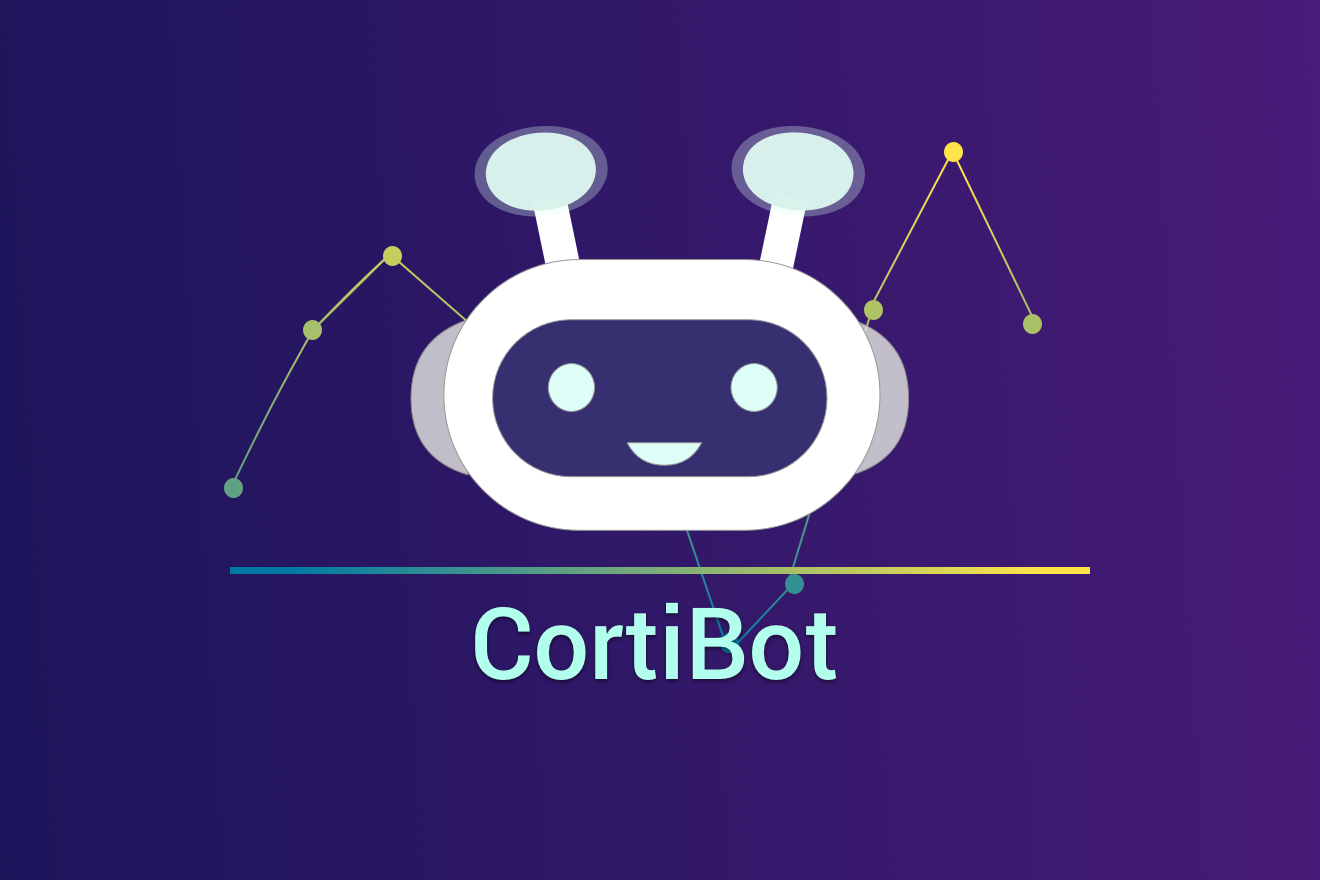
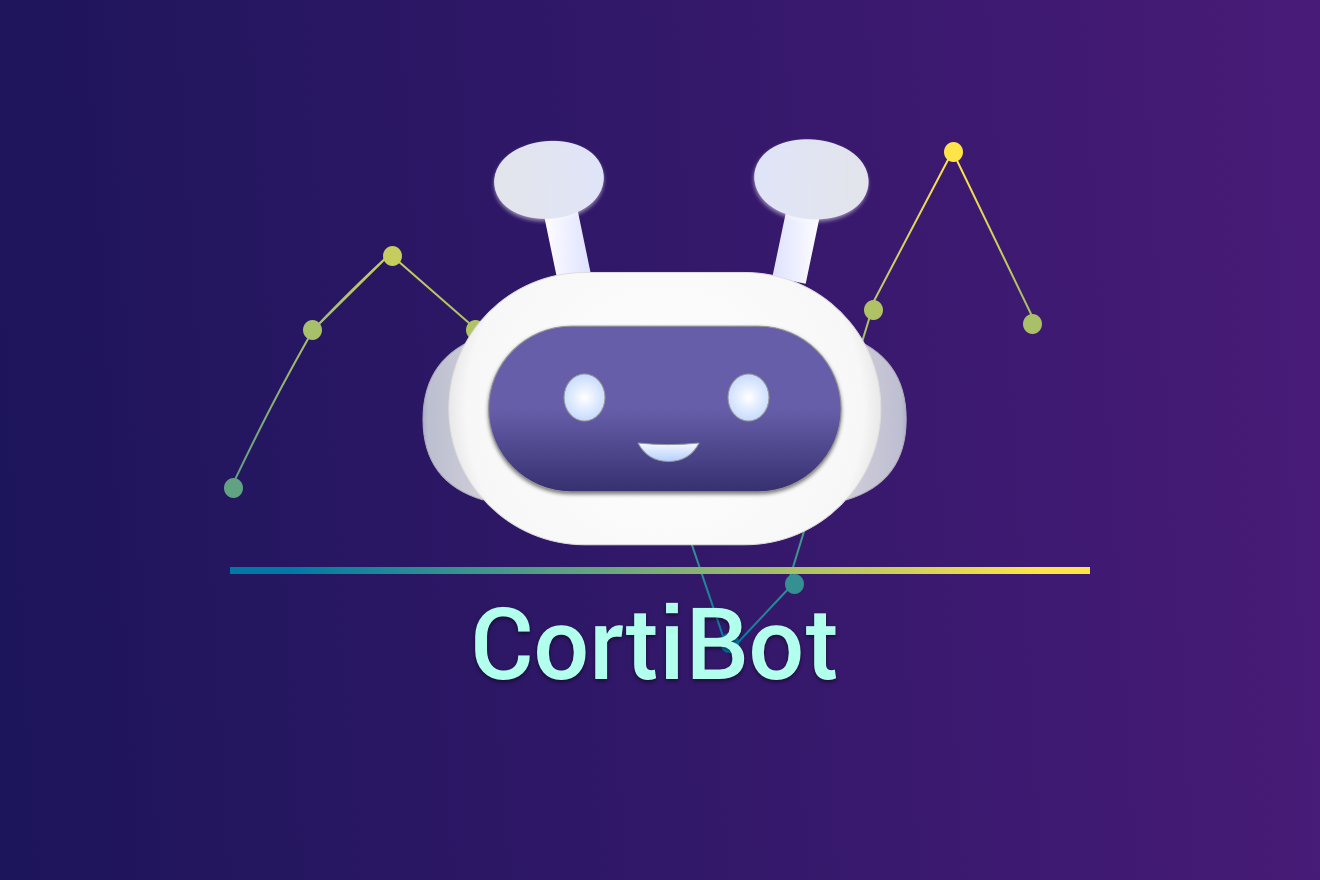
content update

Changed region(s): [[0.3106, 0.1227, 0.6833, 0.6443], [0.6833, 0.4295, 0.7144, 0.4602]]

diff --git a/html/cortibot.html b/html/cortibot.html
@@ -43,6 +43,7 @@
                 <li><a href="index.html">Home </a></li>
                 <li><a href="portfolio.html">Work </a></li>
                 <li><a href="about.html">About </a></li>
+                <li><a href="https://drive.google.com/file/d/1_FbykulEmY7DVFXXd3j-40oeya6c9qxC/view?usp=sharing" target="_blank">Resume</a></li>
                 
             </ul>
         </div>
@@ -164,6 +165,8 @@
 
              
               <p> We decided to reframe our information hierarchy and then visualize them consistently. For instance, the task page would only have tasks with consistent title, content, and points. As we tested through the prototype with the user, we also realized that the order that we revealed the information according to the menu bar might not align with our intention. </p> 
+
+
               <p>We decided to <span class = "inlinetext">change the order of the task menu </span> and the track menu so that users can <span class = "inlinetext">prioritize completing the tasks </span> rather than tracking the numbers. This change would better serve our goal of the app. Finally, we realized the way we represented the metaphors was not providing sufficient information for users to understand the purpose of the app, and what actions need to be taken for each steps. Based on the user’s feedback, we decided to specify the components of the HP or Level.  </p>
 
               
@@ -244,10 +247,8 @@
         <div class = "moredesign" id = "moredesign" data-aos="fade-up" data-aos-duration="600">
           <div class = "secheader" >More Design</div>  
 
-
-          <img src = "../assets/img/cortimore.png" style = "width:100%;"></img> 
-
-               
+           <img src = "../assets/img/cortilogo.png" style = "width:100% "alt ="Robot Design" >
+           
            
             
             <p> Although our demo day has past, our design never stops. We are still updating and completing our CortiBot. Here are some more design screens we created which includes:
@@ -257,6 +258,8 @@
               <li>Using repetitive prompt and context to help users form habits. </li>
               <li>Using gamification to increase engagement which includes finding gear, increasing engine, and adding oil. </li>
               </p>
+
+              <img src = "../assets/img/cortimore.png" style = "width:100%;"></img> 
 
             </p>
 

diff --git a/html/about.html b/html/about.html
@@ -39,6 +39,7 @@
             <li><a href="index.html">Home </a></li>
             <li><a href="portfolio.html">Work </a></li>
             <li><a href="about.html">About </a></li>
+            <li><a href="https://drive.google.com/file/d/1_FbykulEmY7DVFXXd3j-40oeya6c9qxC/view?usp=sharing" target="_blank">Resume</a></li>
             
         </ul>
     </div>
@@ -68,11 +69,11 @@
 
 					<p>I am passionate about food🍕, travel🏝, and new technologies.💡 I am a life-time learner who is always excited to explore unknowns. I am strong at creating visually-appealing designs, but I am also familiar with implementing design using front-end technologies such as HTML, CSS, JavaScript and Bootstrap. As a Designer who comes from Economics and Mathematics ground, I am good at tackling questions in a logical way,  thinking from the business perspective, and proving solutions with valid data results. </p>
 
-					<p>If you are interested in learning more about me, I am always happy to connect!</p><a href="mailto:yingliu3@cs.cmu.edu?" target="_top">yingliu3@cs.cmu.edu</a>
+					<p>If you are interested in learning more about me, I am always happy to connect!</p><a href="mailto:yingliu3@andrew.cmu.edu?" target="_top">yingliu3@andrew.cmu.edu</a>
 
-					<div class = "links">
+					<!-- <div class = "links">
 					 <p><a href="https://drive.google.com/file/d/1_FbykulEmY7DVFXXd3j-40oeya6c9qxC/view?usp=sharing" target="_blank">Download Resume</a></p>
-					</div>
+					</div> -->
 
 					
 				</div>

diff --git a/html/portfolio.html b/html/portfolio.html
@@ -52,9 +52,12 @@
             <li><a href="index.html">Home </a></li>
             <li><a href="portfolio.html">Work </a></li>
             <li><a href="about.html">About</a></li>
+            <li><a href="https://drive.google.com/file/d/1_FbykulEmY7DVFXXd3j-40oeya6c9qxC/view?usp=sharing" target="_blank">Resume</a></li>
         </ul>
     </div>
     <div class="col-md-1"></div>
+
+<!--      <p><a href="https://drive.google.com/file/d/1_FbykulEmY7DVFXXd3j-40oeya6c9qxC/view?usp=sharing" target="_blank">Download Resume</a></p> -->
 
 </div>
 
@@ -67,7 +70,7 @@
         <div class="row">
           <div style="display:none;" id="introduction" class="col-lg-10 mx-auto animate-bottom">
             <h1>Hi! This is <span class = "myName hvr-underline-from-center" >Ally Liu</span> </h1>
-            <p class="lead mb-5">I am currently studying Master of Human Computer Interaction 
+            <p class="lead mb-5">I am a passionate Interaction Designer studying Master of Human Computer Interaction
               <a class = "linkstyle" href = "https://hcii.cmu.edu/academics/mhci" target = "_blank">MHCI</a> at 
               <a class = "linkstyle" href = "https://www.cmu.edu/" target = "_blank">Carnegie Mellon University</a>. Previously designed at 
               <a class = "linkstyle" href = "https://www.livenation.com/" target = "_blank">Live Nation</a>. Currently designing at 

diff --git a/html/cuberover.html b/html/cuberover.html
@@ -33,10 +33,11 @@
 
     </div>
     <div class="col-md-5">
-      <ul class="float-right">
+      <ul class="float-right" style="padding-top: 3%">
         <li> <a href = "index.html">Home </a> </li>
         <li> <a href = "portfolio.html">Work </a> </li>
         <li> <a href = "about.html">About </a> </li>
+        <li><a href="https://drive.google.com/file/d/1_FbykulEmY7DVFXXd3j-40oeya6c9qxC/view?usp=sharing" target="_blank">Resume</a></li>
        
       </ul>
     </div>

diff --git a/html/blur.html b/html/blur.html
@@ -39,6 +39,7 @@
                 <li><a href="index.html">Home </a></li>
                 <li><a href="portfolio.html">Work </a></li>
                 <li><a href="about.html">About </a></li>
+                <li><a href="https://drive.google.com/file/d/1_FbykulEmY7DVFXXd3j-40oeya6c9qxC/view?usp=sharing" target="_blank">Resume</a></li>
                 
             </ul>
         </div>

diff --git a/html/brandeis.html b/html/brandeis.html
@@ -43,6 +43,7 @@
                 <li><a href="index.html">Home </a></li>
                 <li><a href="portfolio.html">Work </a></li>
                 <li><a href="about.html">About </a></li>
+                <li><a href="https://drive.google.com/file/d/1_FbykulEmY7DVFXXd3j-40oeya6c9qxC/view?usp=sharing" target="_blank">Resume</a></li>
                 
             </ul>
         </div>

diff --git a/html/livenation.html b/html/livenation.html
@@ -35,6 +35,7 @@
         <li> <a href = "index.html">Home </a> </li>
         <li> <a href = "portfolio.html">Work </a> </li>
         <li> <a href = "about.html">About </a> </li>
+        <li><a href="https://drive.google.com/file/d/1_FbykulEmY7DVFXXd3j-40oeya6c9qxC/view?usp=sharing" target="_blank">Resume</a></li>
      
       </ul>
     </div>

diff --git a/assets/css/about.css b/assets/css/about.css
@@ -26,7 +26,7 @@ a:hover, a:focus, a:active {
 }
 
 #particles-js {
-  position:absolute;
+  position:fixed;
   z-index:1;
   width:100%;
   height:100%;

diff --git a/assets/css/blur.css b/assets/css/blur.css
@@ -131,8 +131,8 @@ a {
 }
 
 .inlinetext{
-  color:#d66aff;
-  font-weight:550;
+  color:#f37b89;
+  font-weight:600;
 }
 
 .inlinebold{

diff --git a/assets/css/brandeis.css b/assets/css/brandeis.css
@@ -217,7 +217,7 @@ footer.footer {
 }
 
 .container {
-  padding-right:15%;
+  padding-right:10%;
   padding-left:10%;
 }
 
